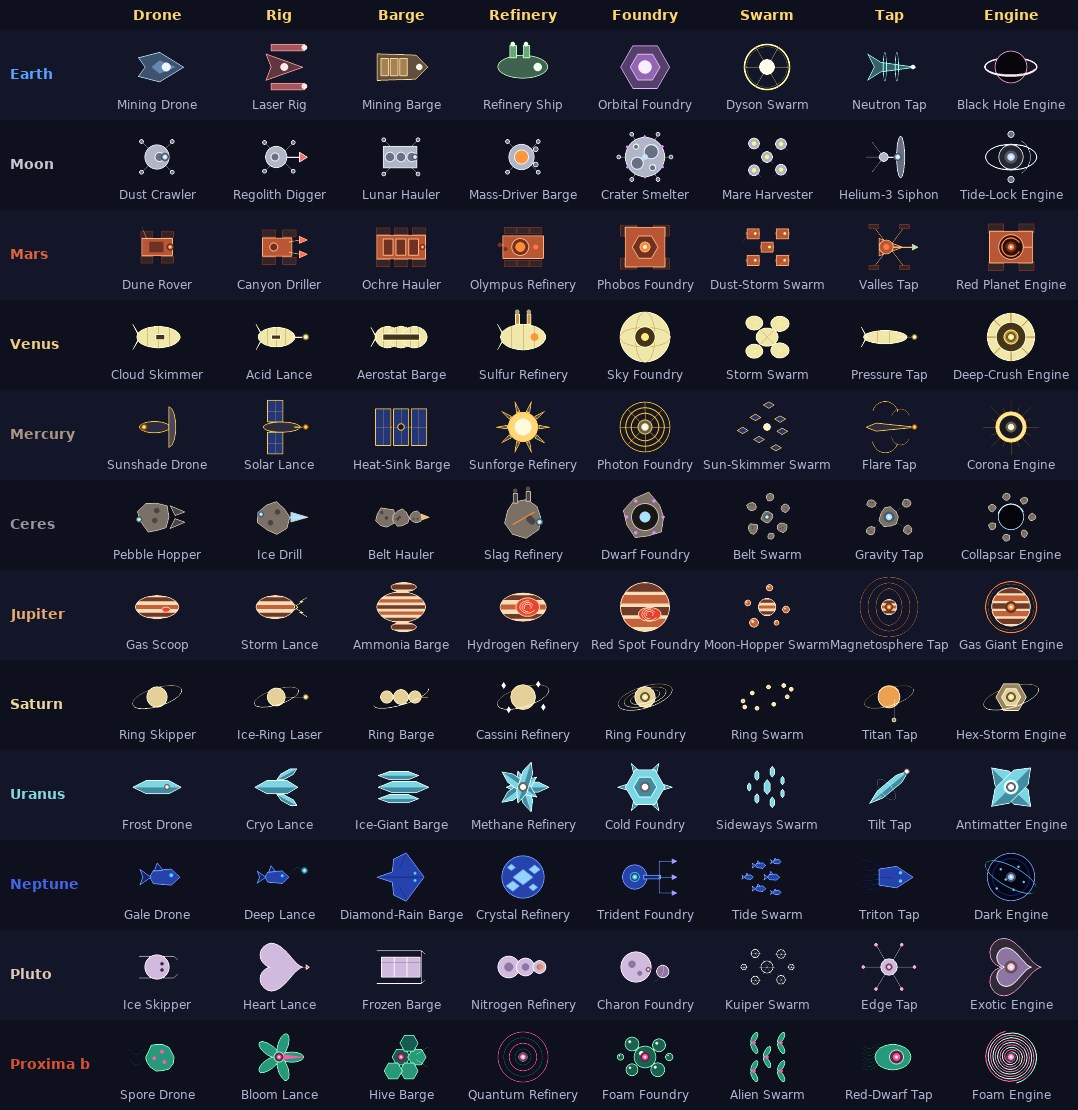
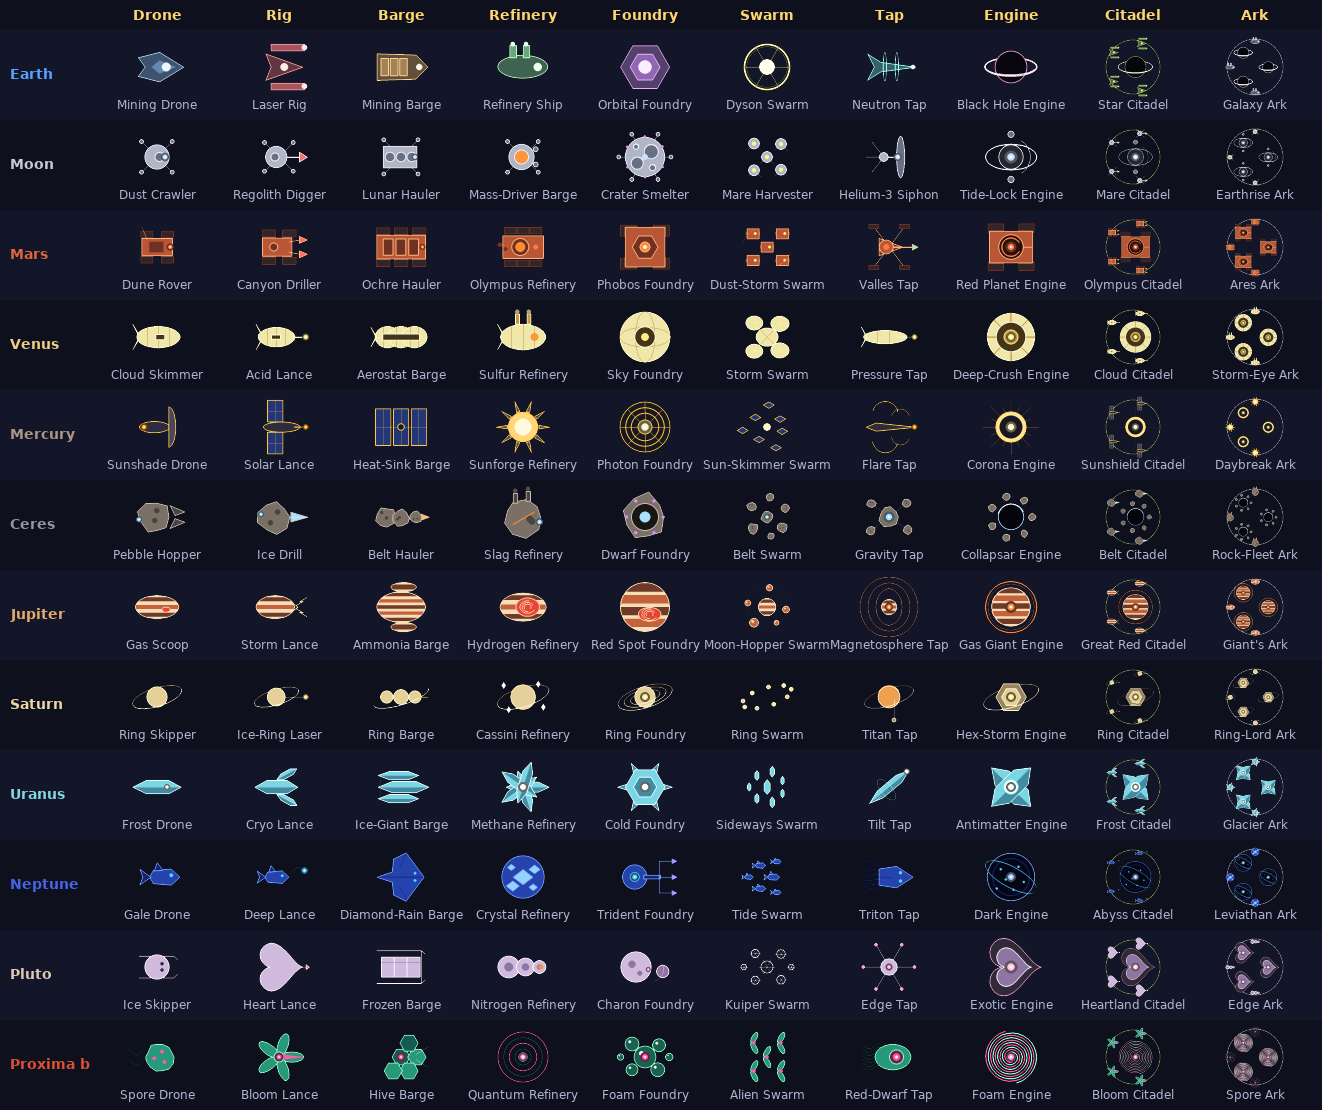
Two new ship classes: Citadel and Ark
- Ten classes on every planet (names and descriptions for all twelve rosters).
  Citadel costs 6.0B and mines 110K ore/s, Ark costs 60.0B and mines 280K ore/s;
  each gives 3x the fleet power of the class before and has its own upgrades
  (68 per planet) and a "Fan" achievement (179 in total).
- The two biggest classes are formations of the planet's own hulls: a flagship
  with escorts (Citadel) and a line of three flagships (Ark). Drawn larger.
- Old saves load with the new classes at zero.
- Self-test, roster sheet, README, changelog and screenshots.

diff --git a/ships.py b/ships.py
@@ -1,89 +1,102 @@
 """Every planet has its own fleet: different ships with their own names, descriptions and looks.
 
-The eight ship *classes* (Drone, Rig, Barge, Refinery, Foundry, Swarm, Tap, Engine) are the same on every planet, with
-the same costs and output, so the balance does not change. What differs is the roster: a Mars "Dune Rover" and a Saturn
-"Ring Skipper" are both Drones, but they are built differently, look different and have their own story.
+The ten ship *classes* (Drone, Rig, Barge, Refinery, Foundry, Swarm, Tap, Engine, Citadel, Ark) are the same on every planet,
+with the same costs and output. What differs is the roster: a Mars "Dune Rover" and a Saturn "Ring Skipper" are both Drones,
+but they are built differently, look different and have their own story. The two biggest classes, Citadel and Ark, are
+formations of the planet's own hulls (see gfx.make_ship).
 Pure data, no pygame.
 """
 import math
 
-CLASSES = ["Drone", "Rig", "Barge", "Refinery", "Foundry", "Swarm", "Tap", "Engine"]
+CLASSES = ["Drone", "Rig", "Barge", "Refinery", "Foundry", "Swarm", "Tap", "Engine", "Citadel", "Ark"]
 
-# per planet (same order as core.SITES): the eight ship names (a plural is made by adding "s") and a one-line description
+# per planet (same order as core.SITES): the ten ship names (a plural is made by adding "s") and a one-line description
 # for each
 ROSTERS = [
     dict(  # Earth
          names=["Mining Drone", "Laser Rig", "Mining Barge", "Refinery Ship", "Orbital Foundry", "Dyson Swarm", "Neutron Tap",
-                "Black Hole Engine"],
+                "Black Hole Engine", "Star Citadel", "Galaxy Ark"],
          blurbs=["A scrappy little miner", "Cuts rock with a focused beam", "Hauls ore by the tonne",
                  "Smelts ore on the way home", "A factory that never lands", "Mirrors that harvest a star",
-                 "Drinks from a dead star", "Eats everything, pays in ore"]),
+                 "Drinks from a dead star", "Eats everything, pays in ore",
+                 "A mobile fortress that mines whole belts", "A fleet that never comes home"]),
     dict(  # Moon
          names=["Dust Crawler", "Regolith Digger", "Lunar Hauler", "Mass-Driver Barge", "Crater Smelter", "Mare Harvester",
-                "Helium-3 Siphon", "Tide-Lock Engine"],
+                "Helium-3 Siphon", "Tide-Lock Engine", "Mare Citadel", "Earthrise Ark"],
          blurbs=["A rover that sifts moondust", "Bites craters for silicon", "Low gravity, heavy loads",
                  "Flings ore into orbit", "A furnace in a crater", "Sweeps the dark seas",
-                 "Pumps solar wind from the soil", "Earth's tides, put to work"]),
+                 "Pumps solar wind from the soil", "Earth's tides, put to work",
+                 "A crater base that learned to fly", "Carries a lunar colony to any rock"]),
     dict(  # Mars
          names=["Dune Rover", "Canyon Driller", "Ochre Hauler", "Olympus Refinery", "Phobos Foundry", "Dust-Storm Swarm",
-                "Valles Tap", "Red Planet Engine"],
+                "Valles Tap", "Red Planet Engine", "Olympus Citadel", "Ares Ark"],
          blurbs=["Rolls over rust and dust", "Bores into the canyon walls", "Red dust on every plate",
                  "Smelts copper under the volcano", "Built in the shadow of Phobos", "A storm that mines",
-                 "Taps the great canyon", "Terraforming's heavy hammer"]),
+                 "Taps the great canyon", "Terraforming's heavy hammer",
+                 "A volcano-sized fortress on treads", "A rolling city that crosses planets"]),
     dict(  # Venus
          names=["Cloud Skimmer", "Acid Lance", "Aerostat Barge", "Sulfur Refinery", "Sky Foundry", "Storm Swarm",
-                "Pressure Tap", "Deep-Crush Engine"],
+                "Pressure Tap", "Deep-Crush Engine", "Cloud Citadel", "Storm-Eye Ark"],
          blurbs=["Floats above the burning surface", "A beam that shrugs off acid", "A balloon the size of a town",
                  "Runs on sulfuric rain", "A factory hung from the clouds", "Lightning-fed mining drones",
-                 "Mines where steel melts", "Built to survive 90 atmospheres"]),
+                 "Mines where steel melts", "Built to survive 90 atmospheres",
+                 "A floating city of a hundred balloons", "A hurricane that carries a fleet"]),
     dict(  # Mercury
          names=["Sunshade Drone", "Solar Lance", "Heat-Sink Barge", "Sunforge Refinery", "Photon Foundry",
-                "Sun-Skimmer Swarm", "Flare Tap", "Corona Engine"],
+                "Sun-Skimmer Swarm", "Flare Tap", "Corona Engine", "Sunshield Citadel", "Daybreak Ark"],
          blurbs=["Hides behind a golden shield", "Burns rock with sunlight", "Carries ore through the heat",
                  "Forges at 400 degrees", "Runs on pure photons", "Dips in and out of the glare",
-                 "Rides the solar flares", "Lives inside the Sun's halo"]),
+                 "Rides the solar flares", "Lives inside the Sun's halo",
+                 "A fortress under a golden shield", "Chases the dawn across the galaxy"]),
     dict(  # Ceres
          names=["Pebble Hopper", "Ice Drill", "Belt Hauler", "Slag Refinery", "Dwarf Foundry", "Belt Swarm",
-                "Gravity Tap", "Collapsar Engine"],
+                "Gravity Tap", "Collapsar Engine", "Belt Citadel", "Rock-Fleet Ark"],
          blurbs=["Hops between floating rocks", "Drills through ancient ice", "Tows rocks through the belt",
                  "Melts slag into pure metal", "A factory on a dwarf planet", "A cloud of tiny diggers",
-                 "Taps the belt's tugging gravity", "A dying star, caged"]),
+                 "Taps the belt's tugging gravity", "A dying star, caged",
+                 "A hollow asteroid full of furnaces", "A thousand rocks in formation"]),
     dict(  # Jupiter
          names=["Gas Scoop", "Storm Lance", "Ammonia Barge", "Hydrogen Refinery", "Red Spot Foundry", "Moon-Hopper Swarm",
-                "Magnetosphere Tap", "Gas Giant Engine"],
+                "Magnetosphere Tap", "Gas Giant Engine", "Great Red Citadel", "Giant's Ark"],
          blurbs=["Skims the clouds for fuel", "Cuts through hurricane winds", "Floats on a sea of gas",
                  "Cracks hydrogen for helium-3", "Forges inside a raging storm", "Hops from moon to moon",
-                 "Drinks lightning and radiation", "Burns a whole planet's worth"]),
+                 "Drinks lightning and radiation", "Burns a whole planet's worth",
+                 "Lives in the eye of a storm", "A fleet with its own weather"]),
     dict(  # Saturn
          names=["Ring Skipper", "Ice-Ring Laser", "Ring Barge", "Cassini Refinery", "Ring Foundry", "Ring Swarm",
-                "Titan Tap", "Hex-Storm Engine"],
+                "Titan Tap", "Hex-Storm Engine", "Ring Citadel", "Ring-Lord Ark"],
          blurbs=["Skips over the ring's ice", "Slices ring ice into diamonds", "Hauls glittering ring dust",
                  "Presses carbon into diamond", "Spins diamonds in the ring plane", "Millions of ring-riding drones",
-                 "Taps Titan's methane seas", "Harnesses the polar hexagon"]),
+                 "Taps Titan's methane seas", "Harnesses the polar hexagon",
+                 "A fortress built into the ring", "A whole ring system in formation"]),
     dict(  # Uranus
          names=["Frost Drone", "Cryo Lance", "Ice-Giant Barge", "Methane Refinery", "Cold Foundry", "Sideways Swarm",
-                "Tilt Tap", "Antimatter Engine"],
+                "Tilt Tap", "Antimatter Engine", "Frost Citadel", "Glacier Ark"],
          blurbs=["Barely warm enough to move", "A beam from absolute cold", "Slides across a frozen sea",
                  "Makes fuel from methane ice", "Works at minus 220 degrees", "Orbits the sideways planet",
-                 "Taps the tilted magnetic field", "Annihilates itself for power"]),
+                 "Taps the tilted magnetic field", "Annihilates itself for power",
+                 "A fortress of frozen glass", "A drifting iceberg of a fleet"]),
     dict(  # Neptune
          names=["Gale Drone", "Deep Lance", "Diamond-Rain Barge", "Crystal Refinery", "Trident Foundry", "Tide Swarm",
-                "Triton Tap", "Dark Engine"],
+                "Triton Tap", "Dark Engine", "Abyss Citadel", "Leviathan Ark"],
          blurbs=["Rides the fastest winds", "Cuts the deep blue dark", "Catches falling diamonds",
                  "Grows crystals in the dark", "Forges where it never dawns", "Drifts on slow cold tides",
-                 "Taps the backwards moon", "Powered by what light can't reach"]),
+                 "Taps the backwards moon", "Powered by what light can't reach",
+                 "A fortress at the bottom of the sky", "The deep fleet that never surfaces"]),
     dict(  # Pluto
          names=["Ice Skipper", "Heart Lance", "Frozen Barge", "Nitrogen Refinery", "Charon Foundry", "Kuiper Swarm",
-                "Edge Tap", "Exotic Engine"],
+                "Edge Tap", "Exotic Engine", "Heartland Citadel", "Edge Ark"],
          blurbs=["Skips over nitrogen ice", "Aimed at the glacier's heart", "Drags ore over frozen plains",
                  "Cracks ice into exotic fuel", "A twin world's workshop", "Hunters at the system's edge",
-                 "Taps the last sunlight", "Bends space at the edge"]),
+                 "Taps the last sunlight", "Bends space at the edge",
+                 "A fortress on the nitrogen glacier", "The last fleet at the edge of the Sun"]),
     dict(  # Proxima b
          names=["Spore Drone", "Bloom Lance", "Hive Barge", "Quantum Refinery", "Foam Foundry", "Alien Swarm",
-                "Red-Dwarf Tap", "Foam Engine"],
+                "Red-Dwarf Tap", "Foam Engine", "Bloom Citadel", "Spore Ark"],
          blurbs=["A living seed with an engine", "A beam grown, not built", "A drifting alien hive",
                  "Refines the fabric of space", "Forges bubbles of foam", "Strange minds, many wings",
-                 "Drinks the red dwarf's glow", "Turns quantum foam to power"]),
+                 "Drinks the red dwarf's glow", "Turns quantum foam to power",
+                 "A fortress grown like a flower", "Seeds a thousand worlds"]),
 ]
 
 # How each planet's ships look and move. style: the hull family drawn by shipart.py; pal: the colours (hull, shade, trim,

diff --git a/space_miner.py b/space_miner.py
@@ -216,7 +216,7 @@ class App:
 
     def ship_sprite(self, p, i, icon=False):
         """The sprite of ship class i on planet p (every planet's fleet looks different)."""
-        size = 46 if icon else round((26 + i * 2) * ships.scale(p))
+        size = 46 if icon else round((26 + i * 2) * (1.3 if i >= gfx.FLEET_TIER else 1.0) * ships.scale(p))
         key = (p, i, size)
         spr = self.ship_cache.get(key)
         if spr is None:
@@ -2617,6 +2617,37 @@ def check_ship_art(app):
         shipart.beam(canvas, style, (100, 100), (180, 150), (255, 200, 120), 1.5, 3)
 
 
+def check_more_ships():
+    """Ten classes everywhere: the tables agree, the new classes are priced and powered on the same ladder, and a save from
+    the time of eight classes still loads."""
+    from core import SHIP_POWER, UPG_BY_ID
+    assert NSH == 10 == len(ships.CLASSES) == len(SHIP_POWER) == len(SHIPS)
+    assert all(len(r["names"]) == NSH and len(r["blurbs"]) == NSH for r in ships.ROSTERS), "a roster misses a class"
+    assert [n for n, *_ in SHIPS] == ships.ROSTERS[0]["names"], "Earth's roster must use the ships' own names"
+    assert all(SHIPS[i + 1][1] > SHIPS[i][1] and SHIPS[i + 1][2] > SHIPS[i][2] and SHIP_POWER[i + 1] > SHIP_POWER[i]
+               for i in range(NSH - 1)), "each class must cost, produce and fight more than the one before"
+    assert all(f"g{i}_{k}" in UPG_BY_ID for i in range(NSH) for k in range(5)), "every class has its upgrades"
+    names = {r["names"][i] for r in ships.ROSTERS for i in (8, 9)}
+    assert len(names) == 2 * len(ships.ROSTERS), "the big classes need a name of their own on every planet"
+    old_save = core.SAVE
+    d = tempfile.mkdtemp(prefix="space_miner_ships_")
+    try:
+        core.SAVE = os.path.join(d, "save.json")
+        g = core.Game(load=False, sim=True)
+        g.owned[0][0], g.owned[0][7] = 5, 3
+        g.save()
+        with open(core.SAVE) as f:
+            data = json.load(f)
+        data["owned"] = [row[:8] for row in data["owned"]]                    # what a save with eight classes holds
+        with open(core.SAVE, "w") as f:
+            json.dump(data, f)
+        h = core.Game(load=True, sim=True)
+        assert all(len(row) == NSH for row in h.owned) and h.owned[0][0] == 5 and h.owned[0][7] == 3 and h.owned[0][9] == 0
+    finally:
+        core.SAVE = old_save
+        shutil.rmtree(d, ignore_errors=True)
+
+
 def check_galaxy():
     """The Milky Way's data and the reach map agree with a brute-force check."""
     N = galaxy.N
@@ -2656,7 +2687,7 @@ def check_fronts():
         assert abs(win_chance(core.power_for(1000.0, c), 1000.0) - c) < 1e-6, "power_for is not the inverse of win_chance"
     g = core.Game(load=False, sim=True)
     g.unlocked[2] = True
-    g.owned = [[200000, 100000, 50000, 20000, 10000, 5000, 2000, 1000] for _ in range(NSITE)]
+    g.owned = [[200000 >> i for i in range(NSH)] for _ in range(NSITE)]
     g.armory[core.JUMP] = 4
     g.recalc()
     fp = g.fleet_power()
@@ -2747,7 +2778,7 @@ def check_counter_offensives():
     def setup():
         g = core.Game(load=False, sim=True)
         g.unlocked[2] = True
-        g.owned = [[200000, 100000, 50000, 20000, 10000, 5000, 2000, 1000] for _ in range(NSITE)]
+        g.owned = [[200000 >> i for i in range(NSH)] for _ in range(NSITE)]
         g.armory[core.JUMP] = 4
         g.armory[core.COMMAND] = 2
         g.recalc()
@@ -2807,6 +2838,7 @@ def selftest_step(app, g, frames, shot):
     if frames == 1:
         check_ship_art(app)
         check_galaxy()
+        check_more_ships()
         check_fronts()
         check_counter_offensives()
         check_new_game_reset()
@@ -2855,7 +2887,7 @@ def selftest_step(app, g, frames, shot):
         g.credits = 1e15; g.science = 1e12
         for k in range(NSITE):
             g.unlocked[k] = True
-            g.owned[k] = [12 + k, 11, 10, 9, 8, 7, 6, 5]
+            g.owned[k] = [12 + k, 11, 10, 9, 8, 7, 6, 5, 4, 3]
             g.bld[k] = [5 + k, 6, 7, 3, 4, 2]
         g.projects = {0, 1, 2}
         g.recalc()
@@ -2909,7 +2941,7 @@ def selftest_step(app, g, frames, shot):
         shot("warpfx")
     if frames == 62:
         # galaxy: campaign, map view, raid
-        g.owned = [[40 + k, 30, 20, 10, 5, 2, 1, 0] for k in range(NSITE)]
+        g.owned = [[40 + k, 30, 20, 10, 5, 2, 1, 0, 0, 0] for k in range(NSITE)]
         g.conquered = {0, 1, 2}
         g.recalc()
         app.tab = T_GALAXY

diff --git a/gfx.py b/gfx.py
@@ -223,8 +223,46 @@ def make_asteroid(size, seed, tint=(255, 255, 255)):
 
 
 # ------------------------------------------------------------------ ships
+FLEET_TIER = 8       # the classes from here up are formations of the planet's own hulls
+
+
+def make_fleet(tier, color, size, style, pal):
+    """The two biggest classes. Citadel (tier 8): a flagship with its escorts under a halo. Ark (tier 9): a line of three
+    flagships with escorts between them, inside a double halo. Every hull is the planet's own, so the fleet still looks like
+    its planet's; drawn at twice the size and scaled down once, so the small hulls stay sharp."""
+    S = size * 2
+    surf = pygame.Surface((S, S), pygame.SRCALPHA)
+    halo = lerp_c(color, (255, 255, 255), 0.2)
+    c = S / 2
+
+    def ring(r, a, w):
+        layer = pygame.Surface((S, S), pygame.SRCALPHA)
+        pygame.draw.circle(layer, (*halo, a), (c, c), r, w)
+        surf.blit(layer, (0, 0))
+
+    def put(t, fx, fy, frac):
+        spr = make_ship(t, color, max(8, int(S * frac)), style, pal)
+        surf.blit(spr, spr.get_rect(center=(S * fx, S * fy)))
+
+    surf.blit(glow(int(S * 0.5), scale_c(color, 0.35)), (0, 0), special_flags=ADD)
+    if tier == FLEET_TIER:
+        ring(S * 0.43, 140, max(2, S // 44))
+        for fx, fy in ((0.18, 0.27), (0.18, 0.73), (0.62, 0.13), (0.62, 0.87)):
+            put(1, fx, fy, 0.25)
+        put(7, 0.54, 0.5, 0.66)
+    else:
+        ring(S * 0.45, 130, max(2, S // 50))
+        for fx, fy in ((0.11, 0.5), (0.5, 0.1), (0.5, 0.9)):
+            put(3, fx, fy, 0.2)
+        for fx, fy in ((0.7, 0.5), (0.31, 0.27), (0.31, 0.73)):
+            put(7, fx, fy, 0.37)
+    return pygame.transform.smoothscale(surf, (size, size))
+
+
 def make_ship(tier, color, size=40, style="classic", pal=None):
     """Ship class `tier` in `color`; Earth's classic hulls are drawn here, every other planet's in shipart.py."""
+    if tier >= FLEET_TIER:
+        return make_fleet(tier, color, size, style, pal)
     if style != "classic":
         import shipart
         return shipart.make(style, tier, color, size, pal)

diff --git a/core.py b/core.py
@@ -39,6 +39,8 @@ SHIPS = [  # name, base cost, ore/sec each, colour
     ("Dyson Swarm",       1.4e6,   1_400,  (255, 245, 130)),
     ("Neutron Tap",       2e7,     7_800,  (110, 255, 235)),
     ("Black Hole Engine", 3.3e8,   44_000, (255, 120, 200)),
+    ("Star Citadel",      6e9,     110_000, (190, 255, 80)),
+    ("Galaxy Ark",        6e10,    280_000, (235, 240, 255)),
 ]
 NSH = len(SHIPS)
 
@@ -236,7 +238,8 @@ FACTIONS = {
     "void": dict(name="Void Cult", col=(175, 110, 255)),
     "devourer": dict(name="The Devourer", col=(255, 80, 200)),
 }
-SHIP_POWER = [1, 3, 9, 27, 81, 243, 729, 2187]          # fleet power of one ship of each type
+SHIP_POWER = [3 ** i for i in range(8)] + [2624, 3149]           # fleet power of one ship of each type (the Citadel and the
+                                                                 # Ark are built to mine and to be seen: 1.2x a class each)
 GALAXY_UNLOCK_PLANET = 2                                # the galaxy map opens when you unlock Mars
 SECTORS = galaxy.STARS            # the Milky Way: thousands of systems (name, faction, position in light-years, power, reward...)
 NSEC = galaxy.N

diff --git a/tools/ship_sheet.py b/tools/ship_sheet.py
@@ -23,7 +23,7 @@ def sprite(p, i, size):
 
 
 def game_size(p, i):
-    return round((26 + i * 2) * ships.scale(p))
+    return round((26 + i * 2) * (1.3 if i >= gfx.FLEET_TIER else 1.0) * ships.scale(p))
 
 
 def difference(a, b):

diff --git a/README.md b/README.md
@@ -6,7 +6,7 @@ An idle game for Linux, written in Python with [pygame](https://www.pygame.org).
 
 - **No assets, no dependencies except pygame** - every planet, ship, asteroid and effect is drawn by code at start-up.
 - **Idle-friendly** - your fleets keep mining while the game is closed (up to 8 hours), and it autosaves every 15 seconds.
-- **A lot of content** - 12 planets, 8 ship types per planet, 58 upgrades per planet, 6 colony buildings per planet, 12 megaprojects, 31 techs, 22 Dark Matter perks, 9 kinds of random events, rotating quests, **the real Milky Way to conquer, with more than 6,000 star systems**, **New Game+ with Stardust** and **180 achievements**. Sound effects are generated by code too, and there is a developer mode for testing.
+- **A lot of content** - 12 planets, 10 ship classes per planet, 68 upgrades per planet, 6 colony buildings per planet, 12 megaprojects, 31 techs, 22 Dark Matter perks, 9 kinds of random events, rotating quests, **the real Milky Way to conquer, with more than 6,000 star systems**, **New Game+ with Stardust** and **182 achievements**. Sound effects are generated by code too, and there is a developer mode for testing.
 
 ## Download
 
@@ -137,7 +137,7 @@ The planet you are visiting sits in the middle of the screen with asteroids orbi
 
 ![A developed fleet on Mars](screenshots/03-mars-fleet.png)
 
-There are 8 ship **classes**, from the humble Drone to the Black Hole Engine, and **every planet has its own fleet of them**: a Dune Rover on Mars and a Ring Skipper on Saturn are both Drones (same price and output), but they have their own names, descriptions, **hulls, colours, flight paths and lasers**, so you can tell where you are by the fleet alone. A new ship type shows up as `???` once you own the one before it.
+There are 10 ship **classes**, from the humble Drone to the Galaxy Ark, and **every planet has its own fleet of them**: a Dune Rover on Mars and a Ring Skipper on Saturn are both Drones (same price and output), but they have their own names, descriptions, **hulls, colours, flight paths and lasers**, so you can tell where you are by the fleet alone. A new ship type shows up as `???` once you own the one before it.
 
 | Planet | The ships | How they fly | Their laser |
 |---|---|---|---|
@@ -168,6 +168,12 @@ There are 8 ship **classes**, from the humble Drone to the Black Hole Engine, an
 | Swarm | 1.4M | 1.4K | Dyson Swarm | Dust-Storm Swarm | Storm Swarm | Ring Swarm |
 | Tap | 20.0M | 7.8K | Neutron Tap | Valles Tap | Pressure Tap | Titan Tap |
 | Engine | 330.0M | 44.0K | Black Hole Engine | Red Planet Engine | Deep-Crush Engine | Hex-Storm Engine |
+| Citadel | 6.0B | 110.0K | Star Citadel | Olympus Citadel | Cloud Citadel | Ring Citadel |
+| Ark | 60.0B | 280.0K | Galaxy Ark | Ares Ark | Storm-Eye Ark | Ring-Lord Ark |
+
+The two biggest classes, **Citadel** and **Ark**, are not new hulls but **formations of the planet's own ships**: a Citadel is a flagship (the planet's Engine hull) with four escorts under a halo, an Ark a line of three flagships with their escorts inside a ring, so a Saturn Ark is three ringed discs and a Neptune Ark three deep-sea creatures. They are drawn larger than the other ships, circle the planet like the rest and lead the fleets you see on the galaxy map. They are priced on the same ladder (a Citadel only pays off once you have a dozen or so Engines on the planet, an Ark after about ten Citadels), fight only a little better than an Engine (fleet power 2,624 and 3,149 for one ship against 2,187: they are for mining and for show, and the pace of the game stays the same) and come with their own Mk2 - Mk6 upgrades and "Fan" achievements.
+
+![The Citadel and Ark rows of the Ships tab on Neptune](screenshots/71-ships-big-classes.png)
 
 All twelve rosters (`ships.py`; `python tools/ship_sheet.py out.png --names` draws this picture):
 
@@ -548,7 +554,7 @@ The price of going again: in cycle *n* planets and megaprojects cost more (`1 + 
 
 ### 10. Achievements
 
-There are **180 achievements** in 12 categories: Mining, Fleet, Planets, Colony, Projects, Science, Wealth, Quests, Warp, Galaxy, General and a handful of **Secret** ones whose name and description stay hidden until you earn them.
+There are **182 achievements** in 12 categories: Mining, Fleet, Planets, Colony, Projects, Science, Wealth, Quests, Warp, Galaxy, General and a handful of **Secret** ones whose name and description stay hidden until you earn them.
 
 - Every achievement has a **tier** - bronze (+0.5% production), silver (+1%), gold (+2%) or platinum (+4%) - so completing everything is worth roughly **+200%** to all production.
 - The **Awards** tab shows a **progress bar** for every unfinished achievement, sorted so the ones closest to done are at the top. Use the category chips to filter.

diff --git a/CHANGELOG.md b/CHANGELOG.md
@@ -2,6 +2,7 @@
 
 ## Unreleased
 
+- **Two new ship classes: Citadel and Ark** (10 classes now, with a name, description and look on every planet). They are the biggest ships: a Citadel is a flagship with its escorts, an Ark a line of three flagships, both built from the planet's own hulls, drawn larger and leading the fleets on the galaxy map. They cost 6.0B and 60.0B base, mine 110K and 280K ore/s, fight 1.2x better than the class before, and come with upgrades (68 per planet) and two more "Fan" achievements (182 in total). Old saves load with the new classes at zero. The balancing bot still reaches the Void Throne at about 70 hours.
 - **Multiple fronts.** Attack several systems at the same time: the new **Command** armory track (7 levels) adds one front per level, up to 8. Each attack sends a share of the fleet that is at home - the smallest force that wins with 95% (*Enough*, the default), 25%, 50% or *All* - so splitting the fleet trades odds for speed; losses count only the ships that were sent. The Galaxy tab has a Fronts card with every fleet in the field, the map shows each fleet on its own lane and each siege, the wide map's top bar lists the next arrivals, and the Fleet Admiral fills every free front by itself. Old saves with a running campaign keep it as one front. New achievements: Two-Front War, Multi-Front Command, War on Every Front.
 - **Enemies take your systems.** Counter-offensives now come from every enemy faction at war with you at once (waves of up to three), hit as hard as the system they start from allows (0.8x to 6x the power of the system they attack) and are met by the garrison or by the part of your fleet that is at home - fleets away on a campaign defend nothing. The enemy grows bolder and strikes sooner while your fleets are away.
 - The balancing bot fills every front and goes for the Void Throne first; `--selftest` covers fronts, saves and counter-offensives.
